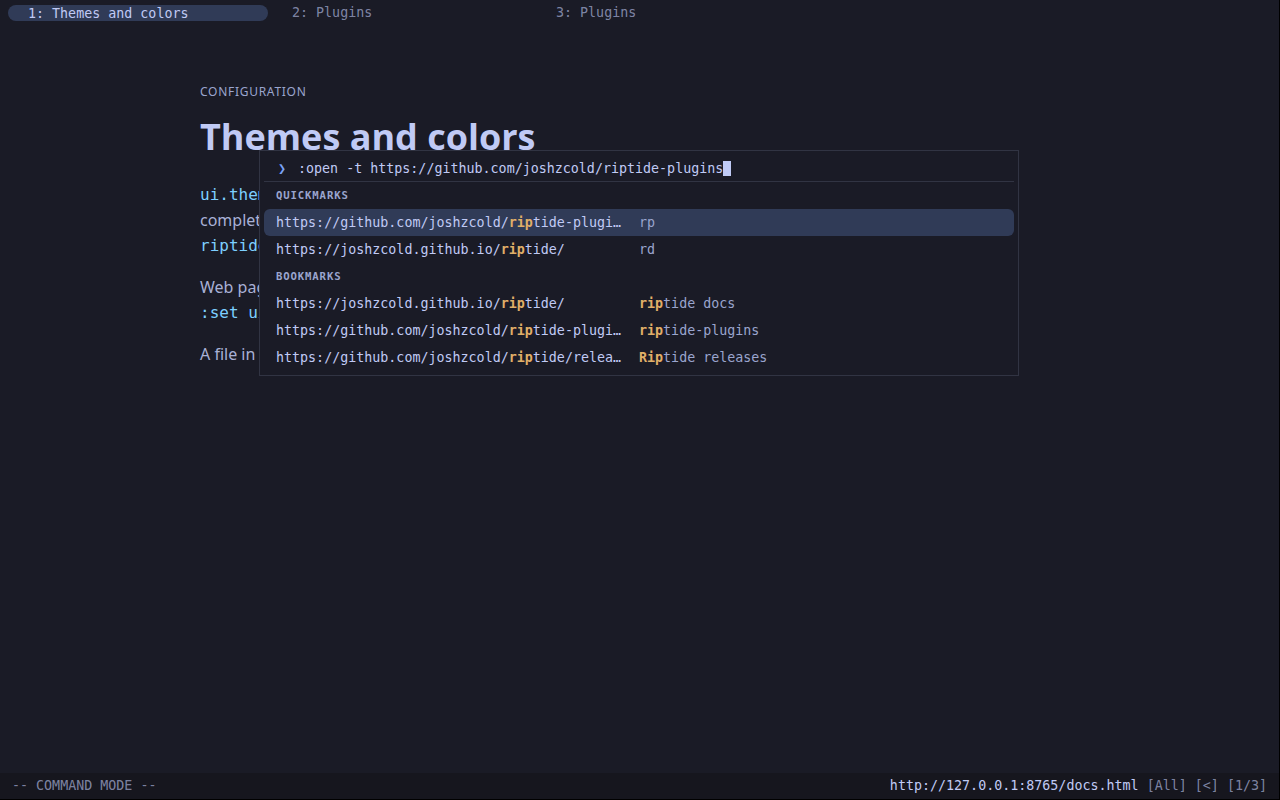
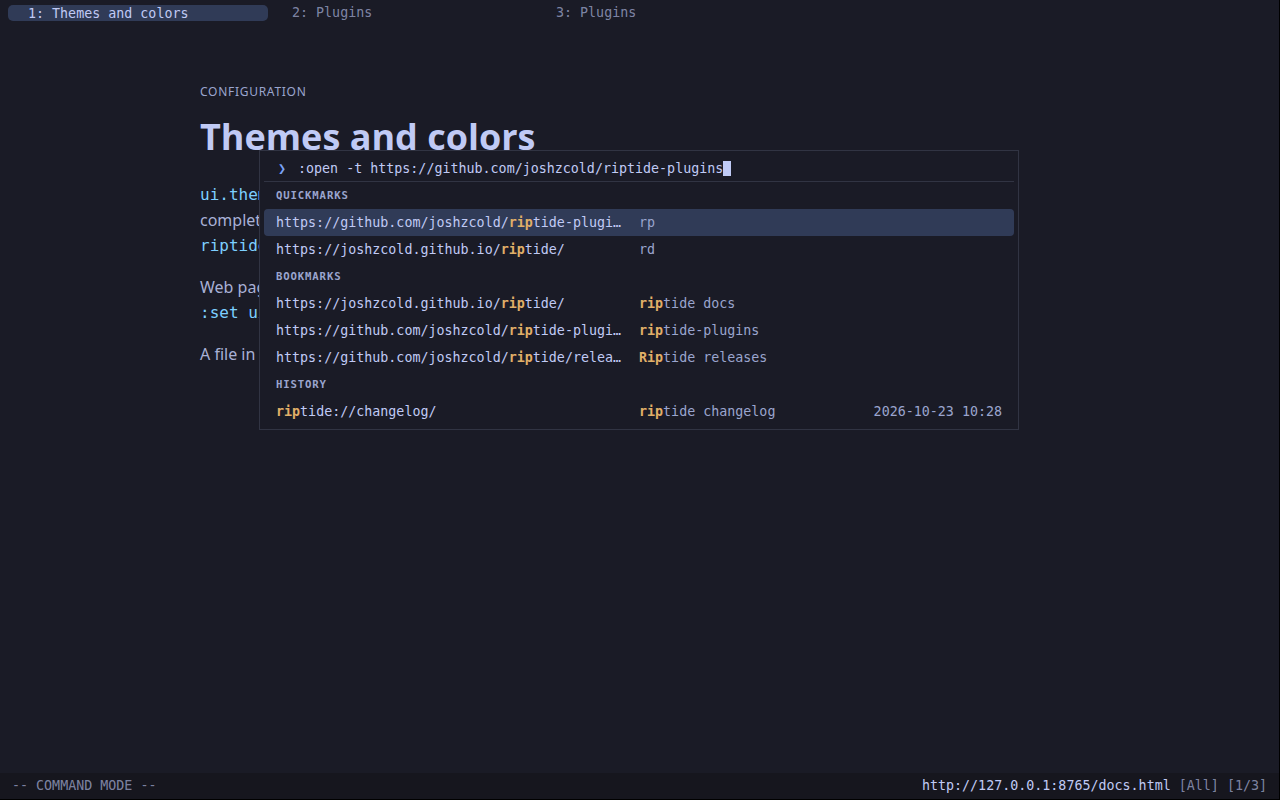
fix(noice): smaller corner radii, and mention ui.overlay.position = center
Tabs and the mode pill were full pills; they now have 4-5px corners, and rows
and buttons 4px. The README screenshots are retaken.

diff --git a/noice/README.md b/noice/README.md
@@ -20,7 +20,8 @@ The palette and the centered questions need two settings of your own; noice
 only styles them, and never changes your settings:
 
 ```lua
-c.ui.overlay.position = "floating"  -- the command line in a box near the top
+c.ui.overlay.position = "floating"  -- the command line in a box near the top,
+                                    -- or "center" for the middle (riptide after 0.8.0)
 c.prompt.position = "center"        -- questions in the middle of the page
 
 rt.pack.add({ "https://github.com/joshzcold/riptide-plugins", subdir = "noice", opts = {
